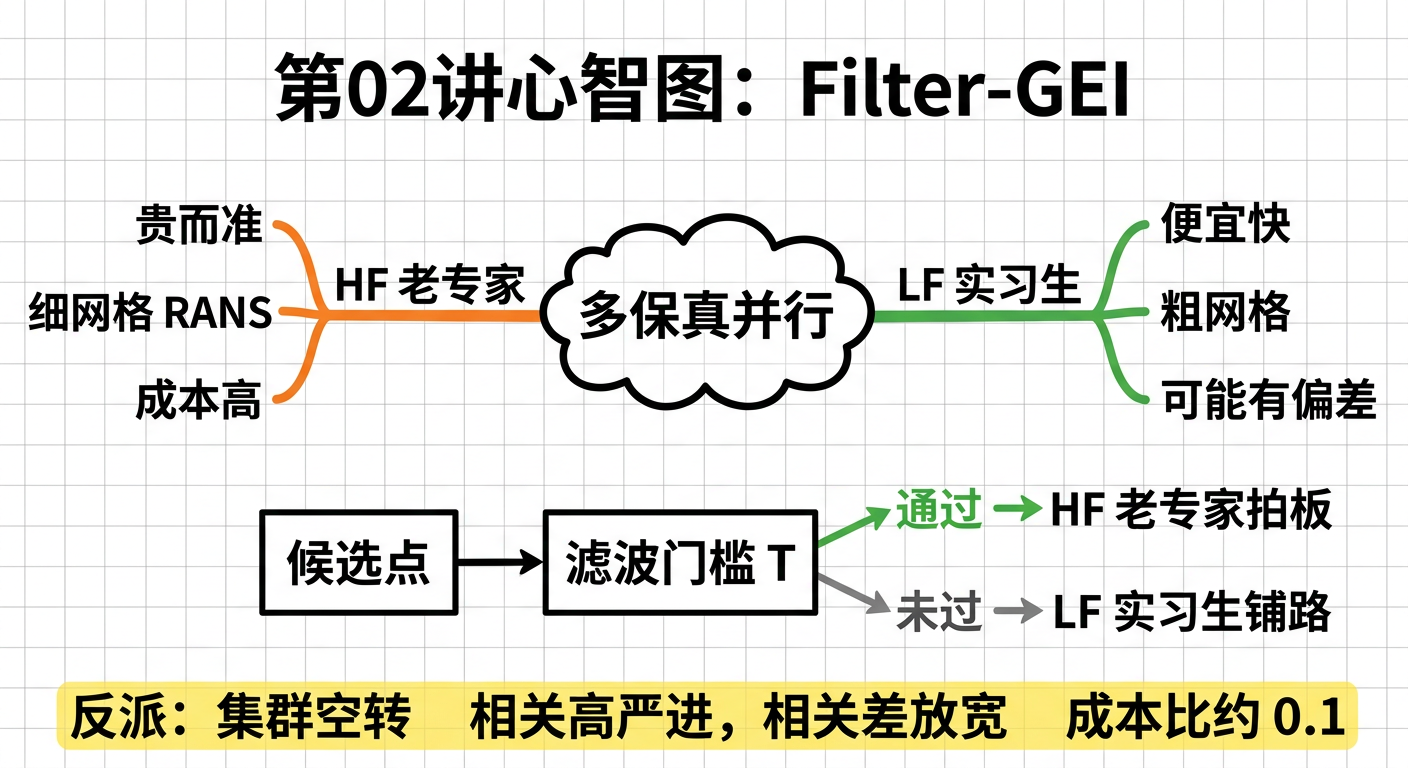
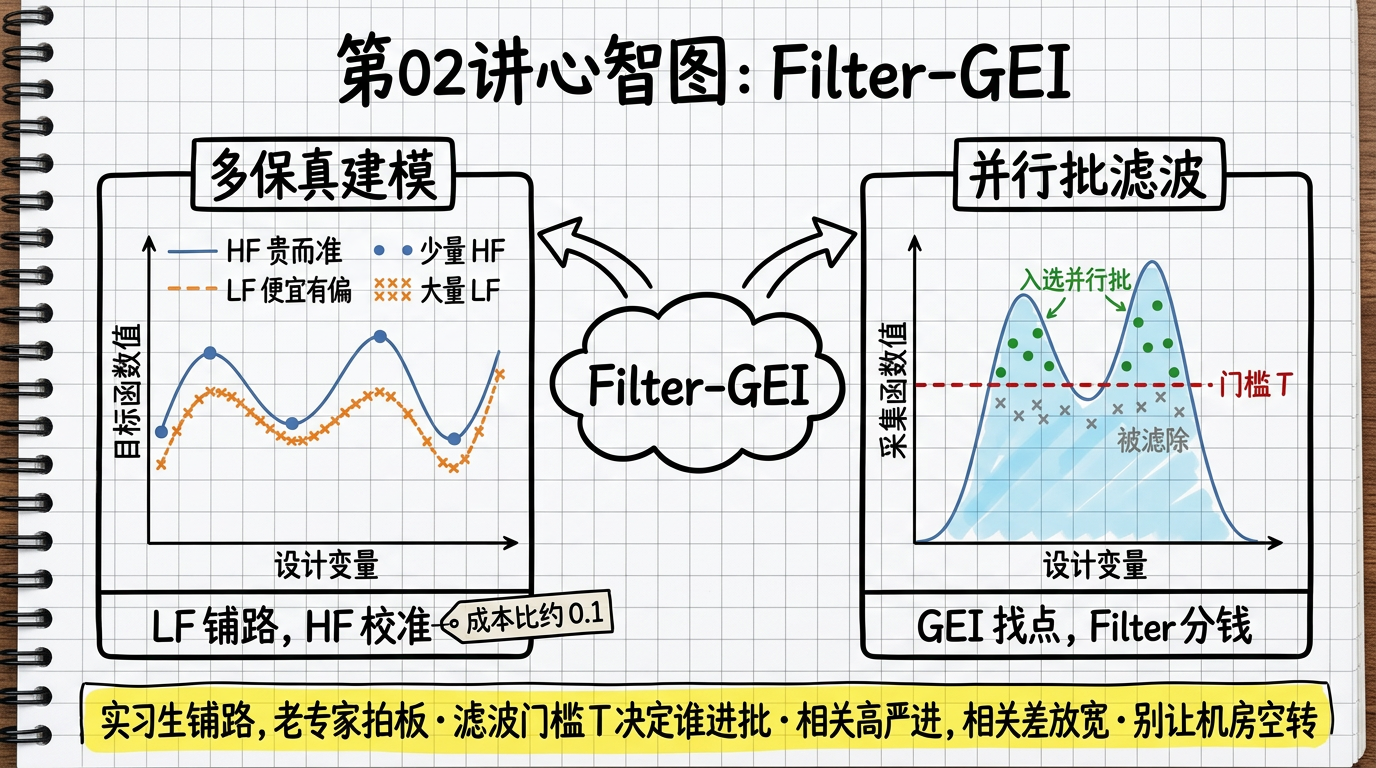
fix(L02): mindmap isomorphic to Filter-GEI dual technical figure
- Rebuild mindmap as left multi-fidelity (LF×/HF●) + right batch filter (T)
- Lock 看图三秒 caption to dual-panel structure; fix prior concept-only layout
- verify 44/44

diff --git a/docs/lectures/02.md b/docs/lectures/02.md
@@ -18,9 +18,9 @@
 
 > **指读：** 左列相关高→ω严进；右列相关差→放宽；中间门槛 T 分流 HF/LF。
 
-![第02讲心智图：Filter-GEI 多保真并行与滤波门槛 T（mindmap）](./images/L02_h_mindmap_zh.png)
+![第02讲心智图：Filter-GEI 左多保真建模右并行批滤波（mindmap）](./images/L02_h_mindmap_zh.png)
 
-> **看图三秒：** 中心「多保真并行」；左 **HF 老专家**（贵而准），右 **LF 实习生**（便宜快）；下半 **候选点→滤波门槛 T**，通过见专家、未过交实习生；底条反派「集群空转」+「相关高严进、相关差放宽」。
+> **看图三秒：** 与技术双图同构——**左**多保真建模（大量 LF× 铺路 + 少量 HF● 校准）；**右**并行批滤波（绿点过门槛 T 入选，灰叉被滤除）；底条口诀「实习生铺路、老专家拍板 / T 决定谁进批 / 相关高严进、相关差放宽 / 别让机房空转」。细节曲线见下节 `filter_gei_multifidelity_parallel_zh`。
 **本讲赌注：** 没有门槛的并行，只是让专家更快地淹没在平庸图里。
 
 ---
